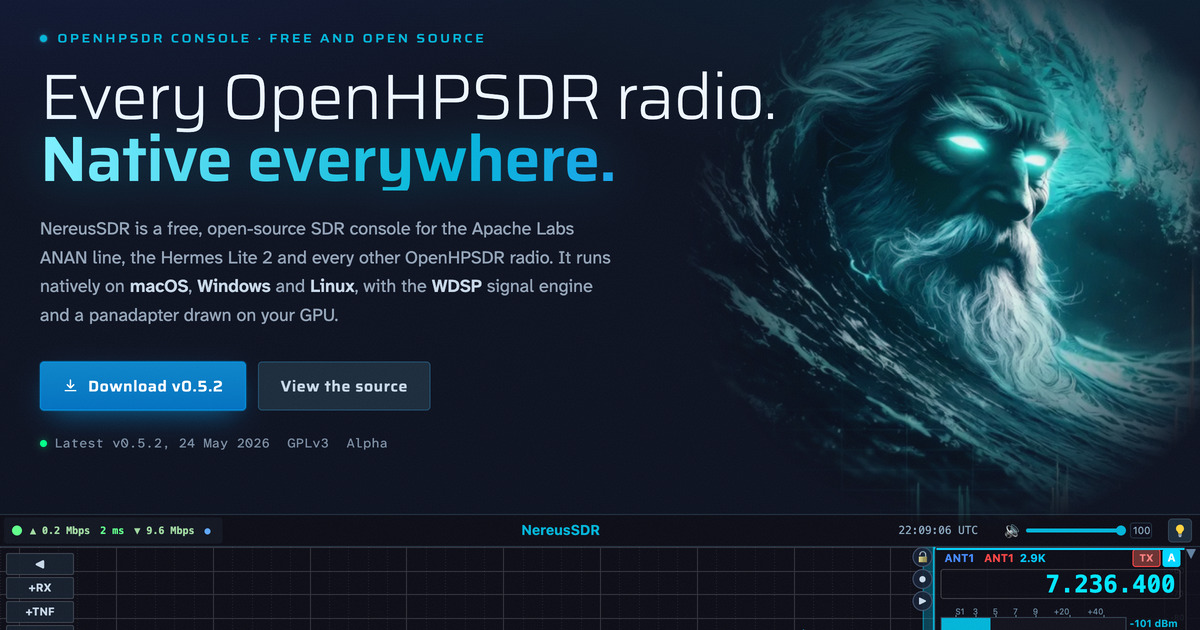
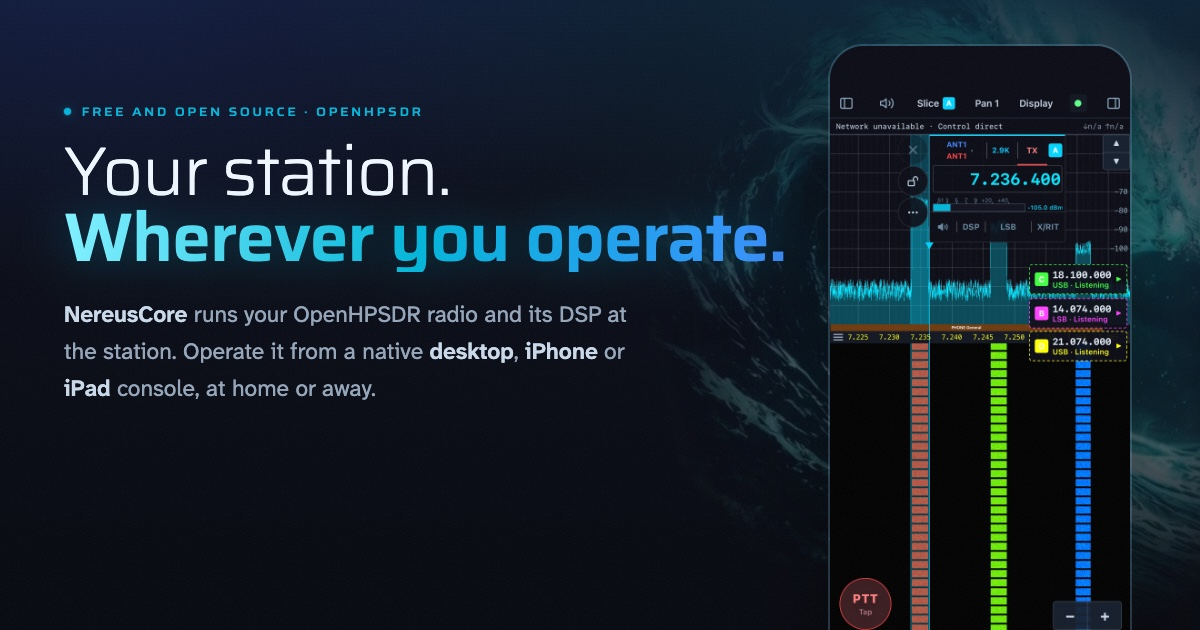
website: a new link preview card without a version number
The old card still advertised the v0.5.2 alpha. website/og-card.html is
its template, built from the site's own hero styles and the iPhone
panadapter capture, with the render steps in its header comment.

diff --git a/website/og-card.html b/website/og-card.html
@@ -1,0 +1,44 @@
+<!doctype html>
+<!--
+  The link preview card, public/assets/img/og-card.jpg (1200x630).
+  It carries no version number, so it stays true from release to release.
+  Render it from the repository root with the site served locally:
+
+    python3 -m http.server 8765 --bind 127.0.0.1 --directory website &
+    "/Applications/Google Chrome.app/Contents/MacOS/Google Chrome" --headless=new \
+      --hide-scrollbars --window-size=1200,630 --virtual-time-budget=3000 \
+      --screenshot=og-card.png http://127.0.0.1:8765/og-card.html
+    sips -s format jpeg -s formatOptions 88 og-card.png --out website/public/assets/img/og-card.jpg
+-->
+<html lang="en">
+<head>
+  <meta charset="utf-8">
+  <title>NereusSDR link card</title>
+  <link rel="stylesheet" href="https://fonts.googleapis.com/css2?family=Atkinson+Hyperlegible+Mono:wght@400..600&amp;family=Atkinson+Hyperlegible+Next:ital,wght@0,300..700;1,400&amp;family=Saira:wdth,wght@100..125,300..700&amp;display=swap">
+  <link rel="stylesheet" href="public/assets/css/site.css">
+  <style>
+    html, body { width: 1200px; height: 630px; margin: 0; overflow: hidden; }
+    .card { position: relative; width: 1200px; height: 630px; overflow: hidden; }
+    .card .hero__copy { position: absolute; left: 64px; top: 96px; width: 740px; }
+    .card .hero__copy > * { animation: none; }
+    .card h1 { font-size: 68px; }
+    .card .hero__lede { font-size: 23px; max-width: 600px; }
+    .card .hero__emblem { right: -150px; width: 720px; transform: translateY(-50%); }
+    .card .hero__emblem img { animation: none; opacity: 0.55; }
+    .card .phone { position: absolute; right: 70px; top: 46px; width: 300px; margin: 0; z-index: 2; }
+    .card .phone img { display: block; width: 100%; height: auto; border-radius: 34px;
+      box-shadow: 0 0 0 2px rgba(120, 160, 200, 0.28), 0 30px 80px rgba(0, 0, 0, 0.6); }
+  </style>
+</head>
+<body>
+  <div class="card hero">
+    <figure class="hero__emblem" aria-hidden="true"><img src="public/assets/img/nereus-640.webp" alt=""></figure>
+    <div class="hero__copy">
+      <p class="eyebrow">Free and open source · OpenHPSDR</p>
+      <h1><span class="line">Your station.</span><span class="line line--lit">Wherever you operate.</span></h1>
+      <p class="hero__lede"><strong>NereusCore</strong> runs your OpenHPSDR radio and its DSP at the station. Operate it from a native <strong>desktop</strong>, <strong>iPhone</strong> or <strong>iPad</strong> console, at home or away.</p>
+    </div>
+    <figure class="phone"><img src="public/assets/img/iphone-panadapter.png" alt=""></figure>
+  </div>
+</body>
+</html>

diff --git a/website/public/index.html b/website/public/index.html
@@ -17,7 +17,7 @@
   <meta property="og:image" content="https://nereussdr.com/assets/img/og-card.jpg">
   <meta property="og:image:width" content="1200">
   <meta property="og:image:height" content="630">
-  <meta property="og:image:alt" content="NereusSDR: every OpenHPSDR radio, native everywhere.">
+  <meta property="og:image:alt" content="NereusSDR: your station, wherever you operate. The NereusSDR iPhone app showing a panadapter beside the headline.">
   <meta name="twitter:card" content="summary_large_image">
 
   <link rel="icon" href="/favicon.ico" sizes="any">
